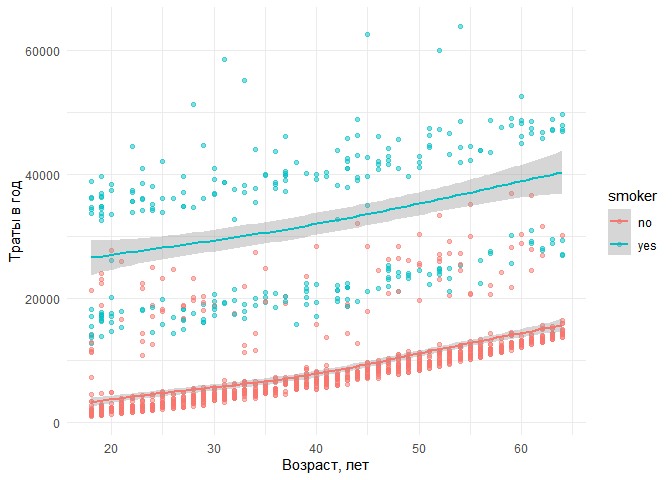
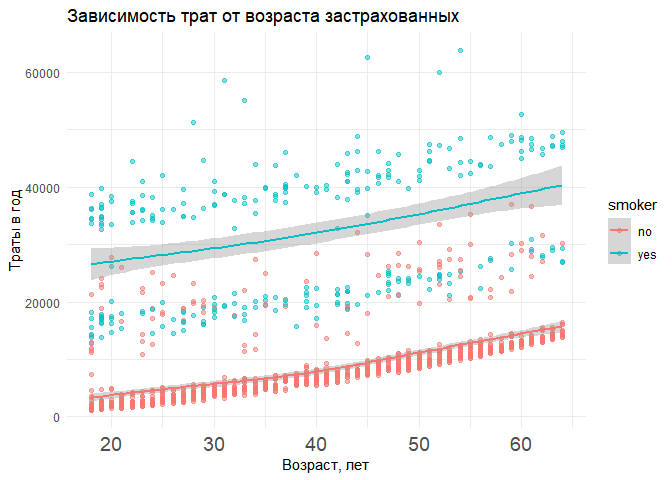
Update .md files

diff --git a/Dmitry-Zubkov---DataViz---HW1.md b/Dmitry-Zubkov---DataViz---HW1.md
@@ -1,17 +1,9 @@
 Задание 1-2
 -----------
 
+Короткие грубые гистограммы представлены в последней колонке таблицы.
+
     df <-  read_csv("insurance_cost.csv")
-
-    ## Rows: 1338 Columns: 7
-    ## -- Column specification --------------------------------------------------------
-    ## Delimiter: ","
-    ## chr (3): sex, smoker, region
-    ## dbl (4): age, bmi, children, charges
-    ## 
-    ## i Use `spec()` to retrieve the full column specification for this data.
-    ## i Specify the column types or set `show_col_types = FALSE` to quiet this message.
-
     skim(df)
 
 <table>
@@ -275,33 +267,33 @@
     ggplot(df, aes(x = age, y = charges)) +
       geom_point(alpha = 0.5) +
       geom_smooth() +
+      ggtitle("Зависимость трат от возраста застрахованных") +
       xlab("Возраст, лет") +
       ylab("Траты в год") +
-      theme_minimal()
-
-    ## `geom_smooth()` using method = 'gam' and formula 'y ~ s(x, bs = "cs")'
+      theme_minimal() +
+      theme(axis.text.x = element_text(size = 14))
 
 ![](Dmitry-Zubkov---DataViz---HW1_files/figure-markdown_strict/charges_age-1.png)
 
     ggplot(df, aes(x = age, y = charges, color = smoker)) +
       geom_point(alpha = 0.5) +
       geom_smooth() +
+      ggtitle("Зависимость трат от возраста застрахованных") +
       xlab("Возраст, лет") +
       ylab("Траты в год") +
-      theme_minimal()
-
-    ## `geom_smooth()` using method = 'gam' and formula 'y ~ s(x, bs = "cs")'
+      theme_minimal() +
+      theme(axis.text.x = element_text(size = 14))
 
 ![](Dmitry-Zubkov---DataViz---HW1_files/figure-markdown_strict/charges_age_smokers-1.png)
 
     ggplot(df, aes(x = bmi, y = charges, color = smoker)) +
       geom_point(alpha = 0.5) +
       geom_smooth() +
+      ggtitle("Зависимость трат от ИМТ застрахованных") +
       xlab("Индекс массы тела") +
       ylab("Траты в год") +
-      theme_minimal()
-
-    ## `geom_smooth()` using method = 'gam' and formula 'y ~ s(x, bs = "cs")'
+      theme_minimal() +
+      theme(axis.text.x = element_text(size = 14))
 
 ![](Dmitry-Zubkov---DataViz---HW1_files/figure-markdown_strict/charges_bmi_smokers-1.png)
 
@@ -328,8 +320,6 @@
 Взглянем еще раз на график зависимости трат от BMI в группах курящих и
 некурящих.
 
-    ## `geom_smooth()` using method = 'gam' and formula 'y ~ s(x, bs = "cs")'
-
 ![](Dmitry-Zubkov---DataViz---HW1_files/figure-markdown_strict/charges_bmi_smokers1-1.png)
 
 Видно, что выборка сильно разделяется по фактору курения и по BMI,
@@ -343,13 +333,7 @@
 в подгруппах курящих/некурящих и клиентов с ожирением/без ожирения. Два
 синонимичных графика:
 
-    ## `geom_smooth()` using method = 'loess' and formula 'y ~ x'
-
-![](Dmitry-Zubkov---DataViz---HW1_files/figure-markdown_strict/charges_obesity_smokers2-1.png)
-
-    ## `geom_smooth()` using formula 'y ~ x'
-
-![](Dmitry-Zubkov---DataViz---HW1_files/figure-markdown_strict/charges_obesity_smokers2-2.png)
+![](Dmitry-Zubkov---DataViz---HW1_files/figure-markdown_strict/charges_obesity_smokers2-1.png)![](Dmitry-Zubkov---DataViz---HW1_files/figure-markdown_strict/charges_obesity_smokers2-2.png)
 
 Выводы:
 
@@ -373,8 +357,6 @@
 Есть тенденция к росту затрат при росте числа детей. Изучим зависимость
 трат от возраста и числа детей.
 
-    ## `geom_smooth()` using formula 'y ~ x'
-
 ![](Dmitry-Zubkov---DataViz---HW1_files/figure-markdown_strict/charges_children2-1.png)
 
 Выводы:
@@ -392,11 +374,7 @@
 Проведем те же манипуляции для изучения влияния пола в подгруппе
 некурящих.
 
-![](Dmitry-Zubkov---DataViz---HW1_files/figure-markdown_strict/charges_sex-1.png)
-
-    ## `geom_smooth()` using formula 'y ~ x'
-
-![](Dmitry-Zubkov---DataViz---HW1_files/figure-markdown_strict/charges_sex-2.png)
+![](Dmitry-Zubkov---DataViz---HW1_files/figure-markdown_strict/charges_sex-1.png)![](Dmitry-Zubkov---DataViz---HW1_files/figure-markdown_strict/charges_sex-2.png)
 
 Выводы:
 
@@ -409,11 +387,7 @@
 Проведем те же манипуляции для изучения влияния региона в подгруппе
 некурящих.
 
-![](Dmitry-Zubkov---DataViz---HW1_files/figure-markdown_strict/charges_region1-1.png)
-
-    ## `geom_smooth()` using formula 'y ~ x'
-
-![](Dmitry-Zubkov---DataViz---HW1_files/figure-markdown_strict/charges_region1-2.png)
+![](Dmitry-Zubkov---DataViz---HW1_files/figure-markdown_strict/charges_region1-1.png)![](Dmitry-Zubkov---DataViz---HW1_files/figure-markdown_strict/charges_region1-2.png)
 
 Выводы:
 
